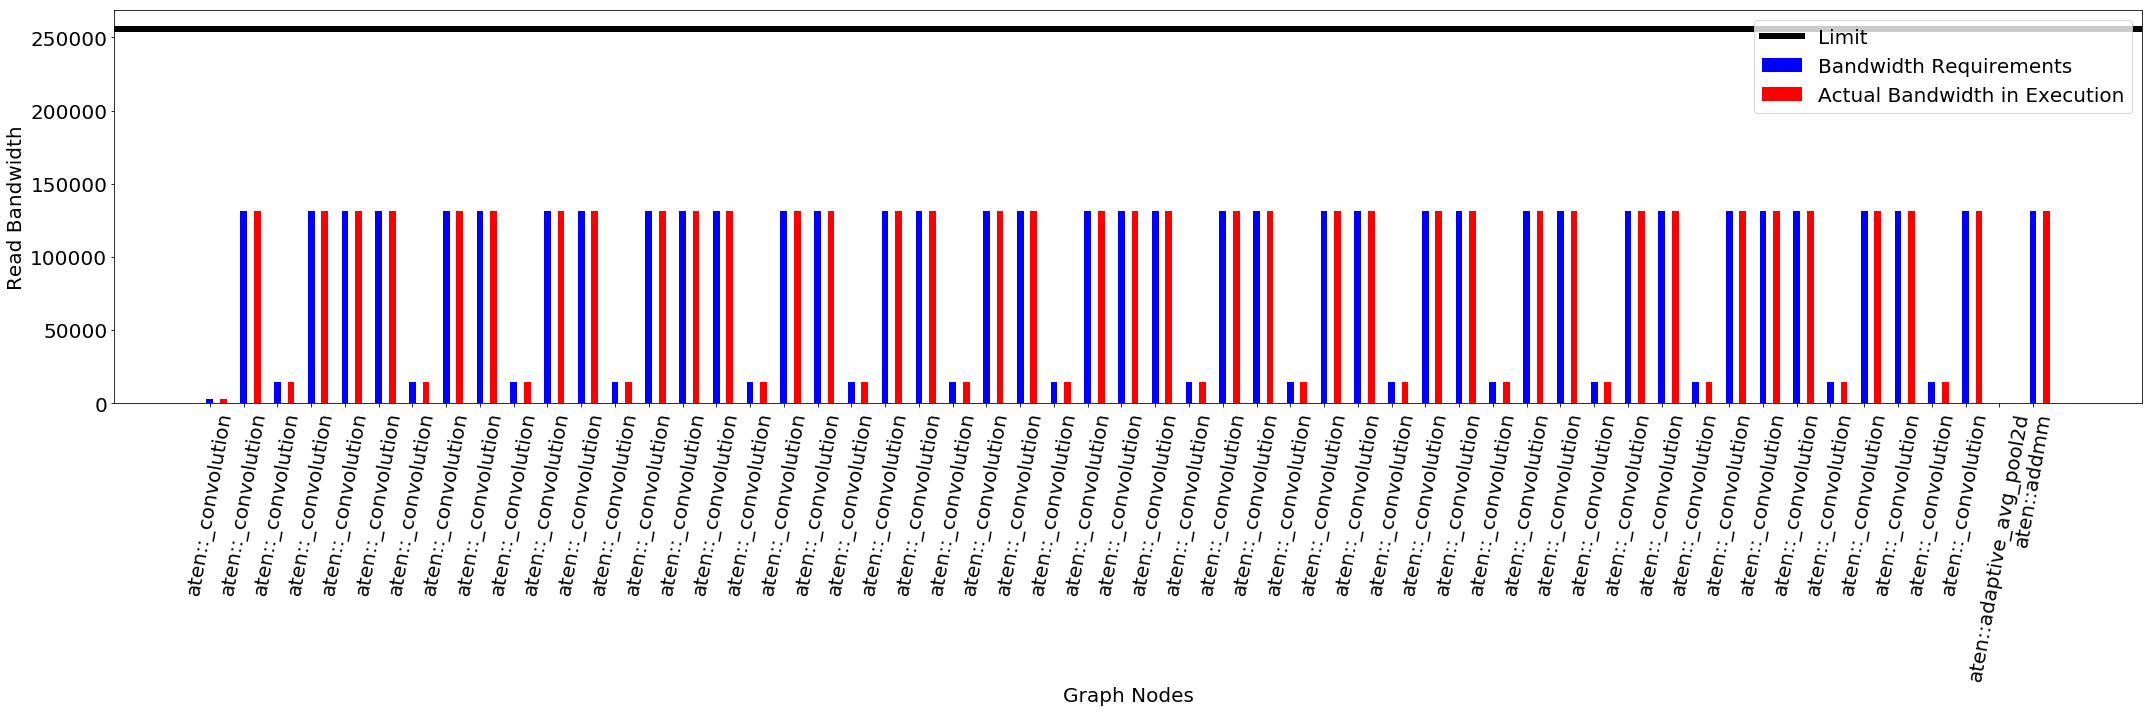
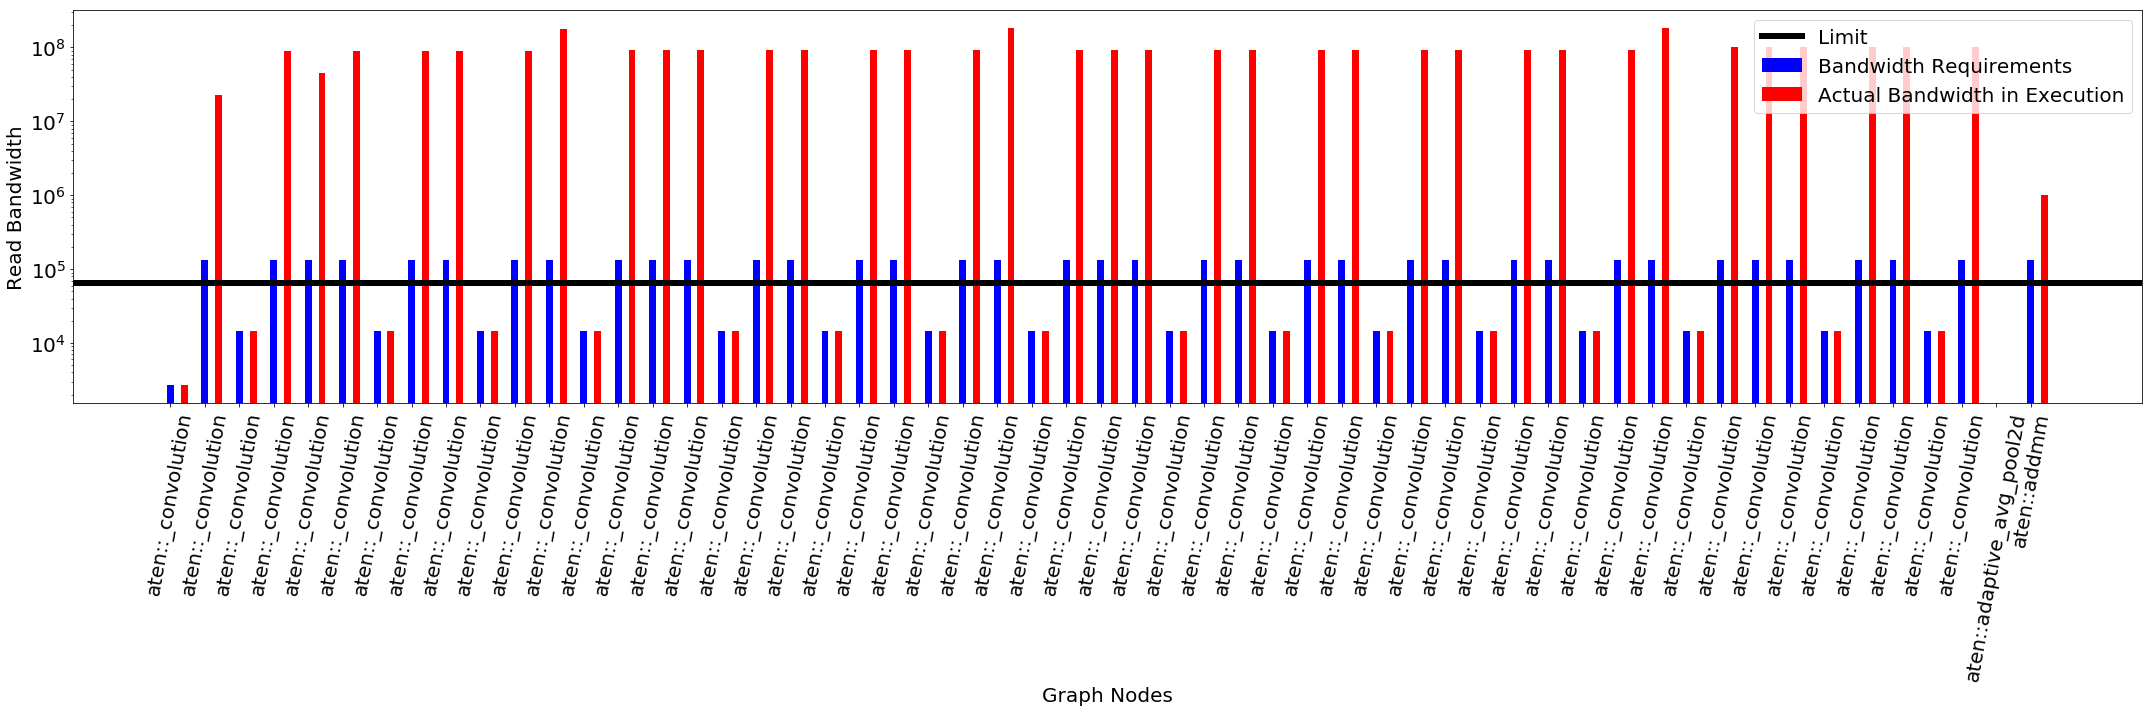
edits

diff --git a/src/utils/visualizer.py b/src/utils/visualizer.py
@@ -53,6 +53,7 @@ def bar_graph(
         label="Actual Bandwidth in Execution",
     )
     ax.legend(fontsize=20)
+    plt.yscale("log")
     ax.set_xticks(index)
     ax.set_xticklabels(xticklabels)
     plt.xticks(rotation=80)
